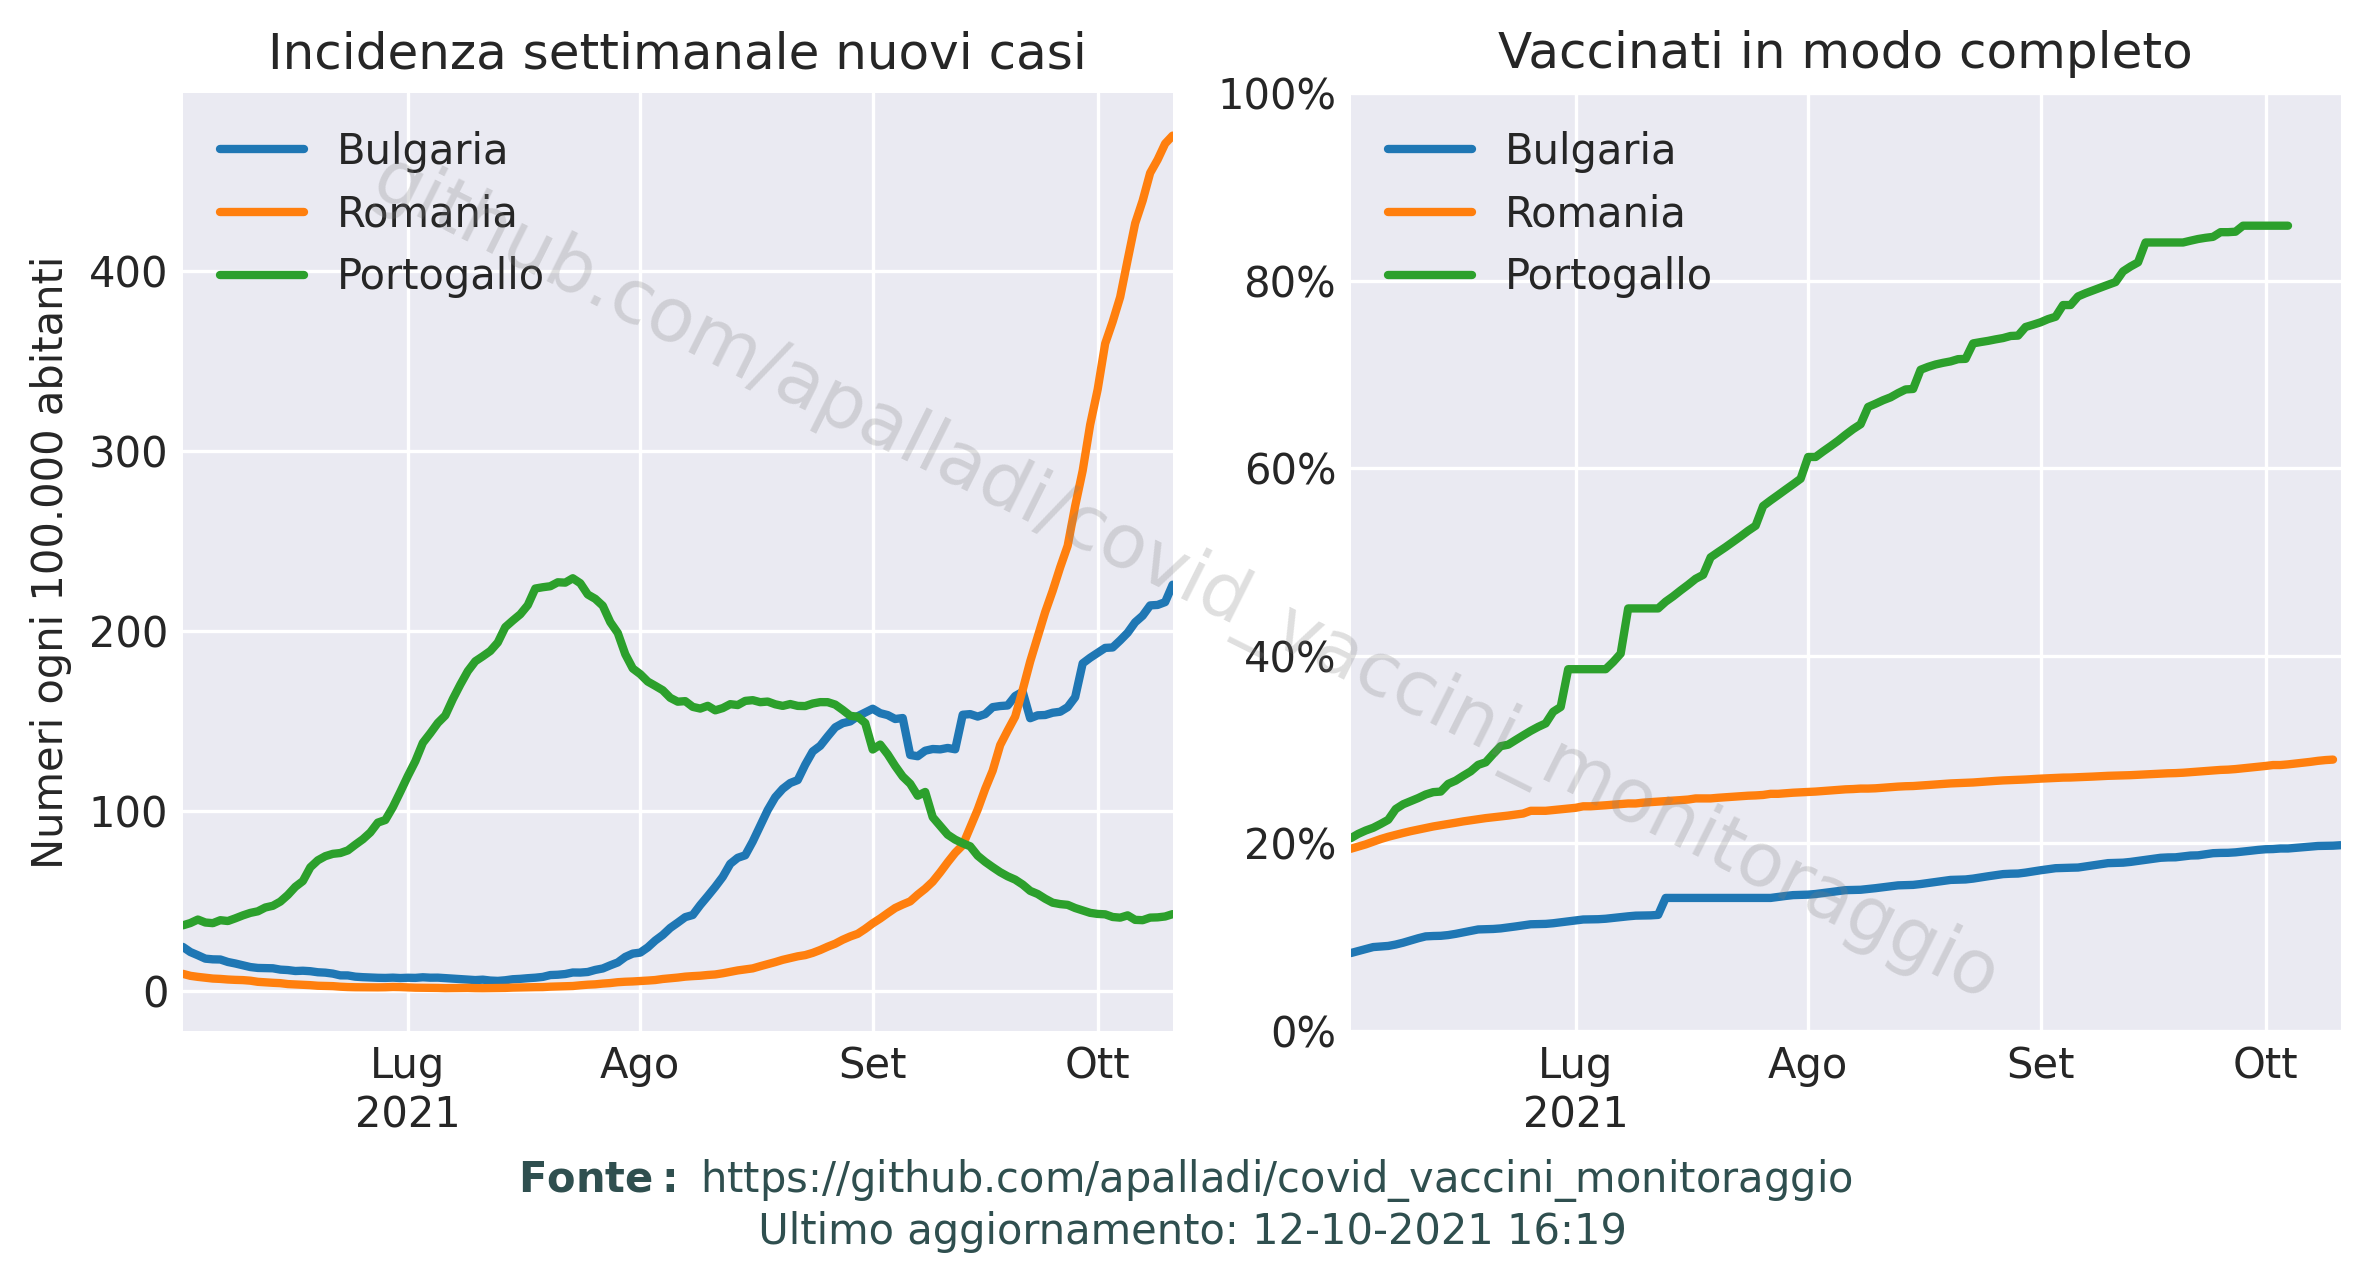
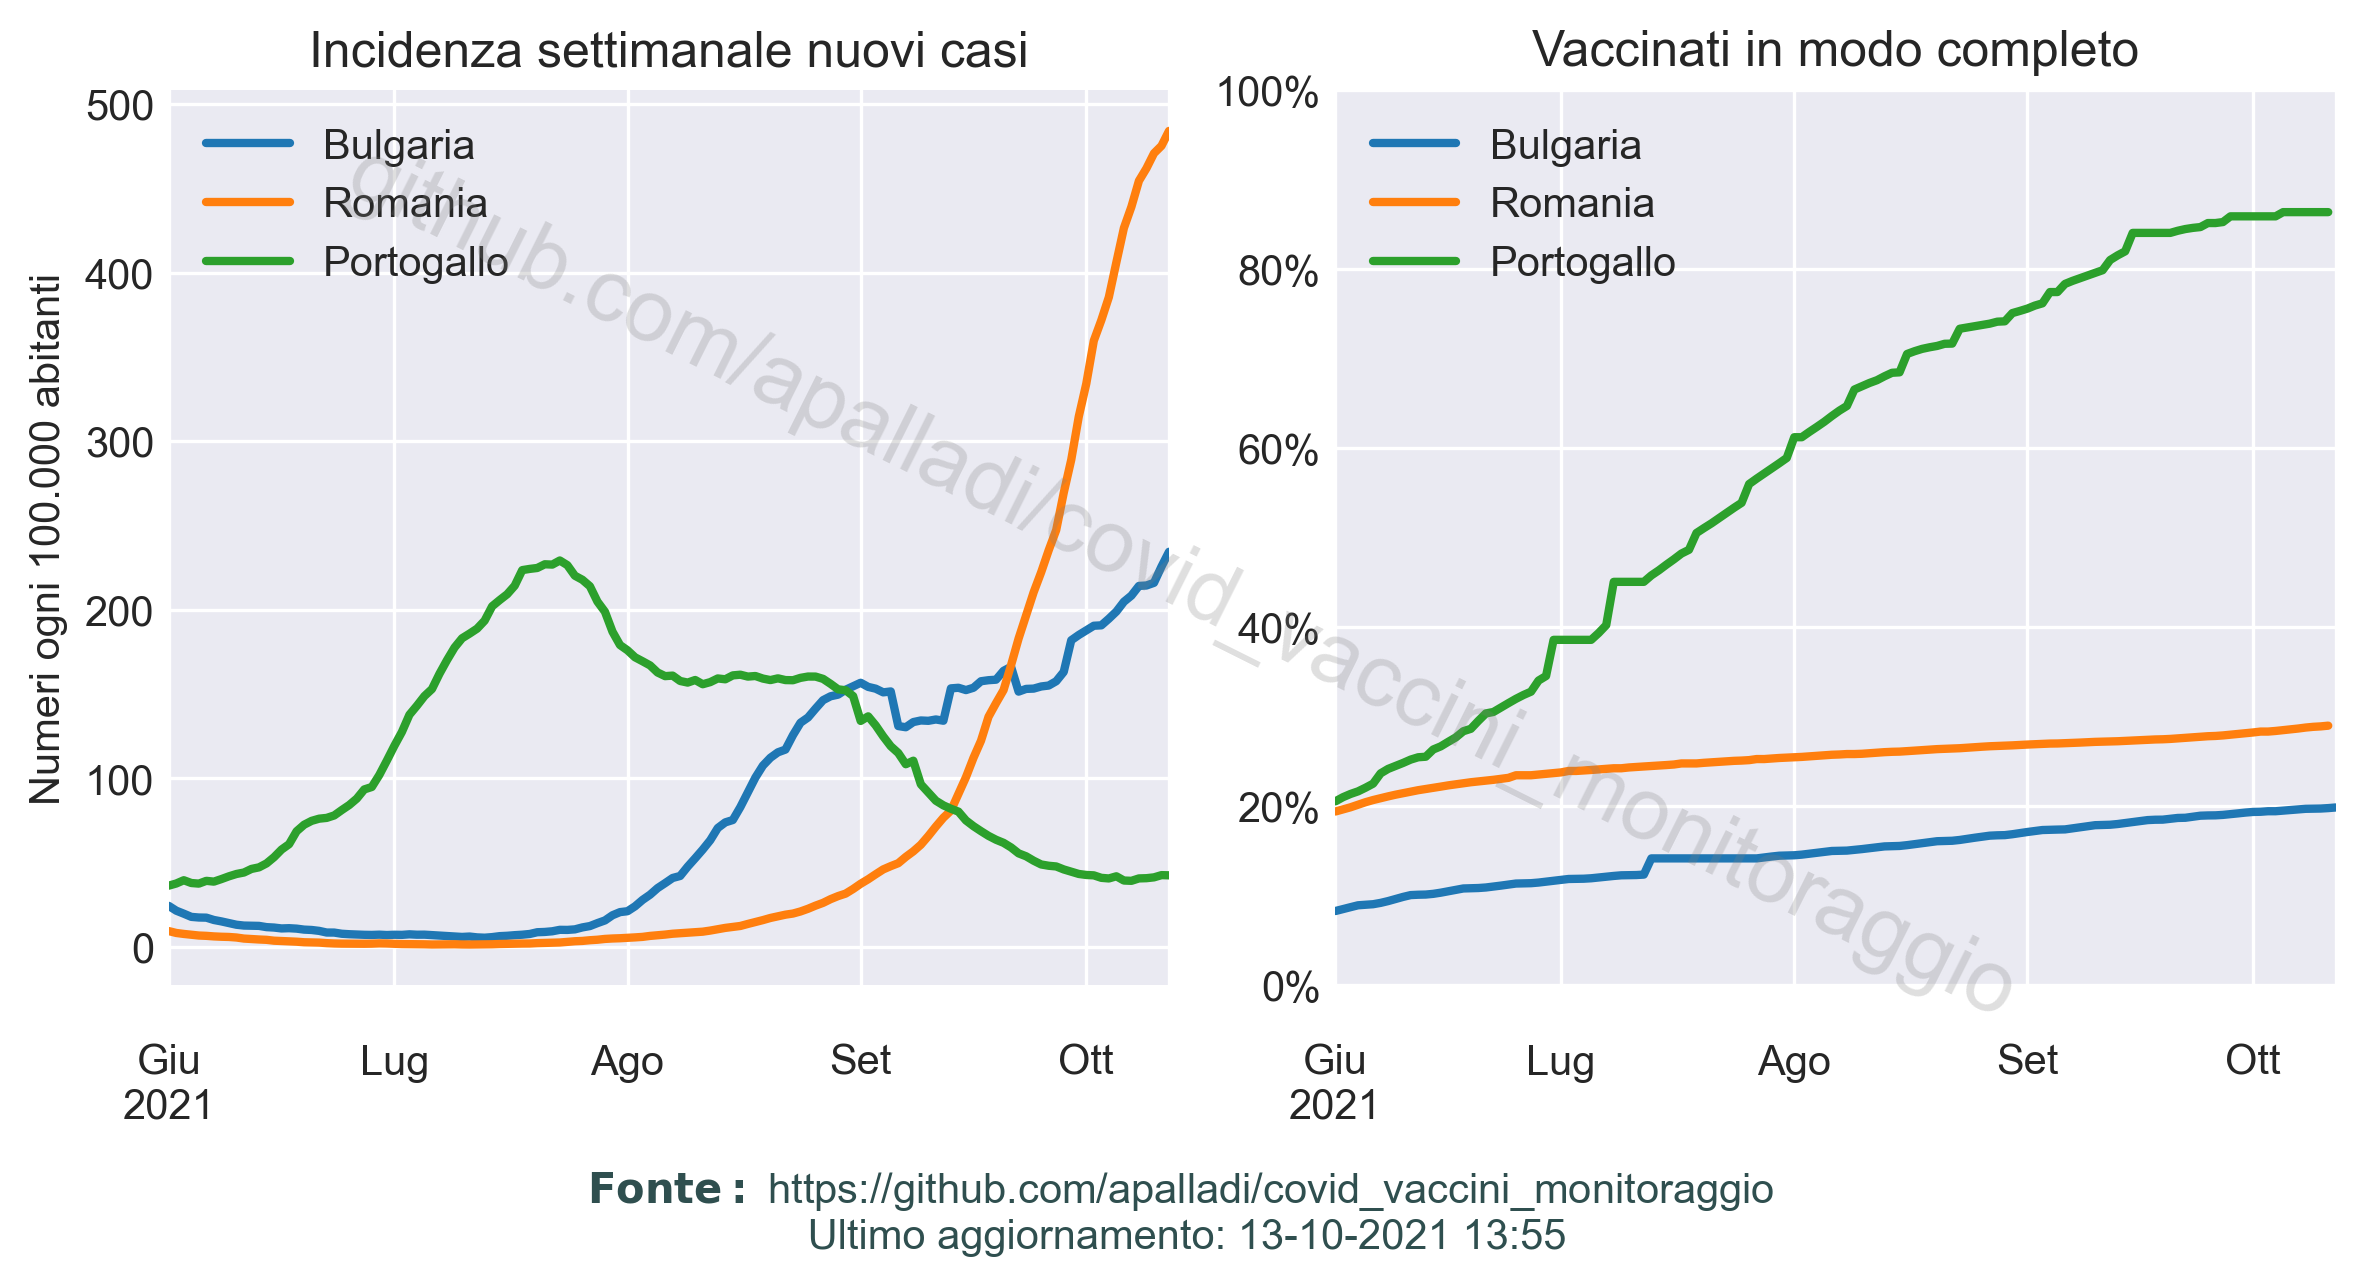
Confronto nazioni: usa labels generati da matplotlib

diff --git a/scripts/confronti_internazionali.py b/scripts/confronti_internazionali.py
@@ -7,7 +7,7 @@ import matplotlib.pyplot as plt
 import numpy as np
 import pandas as pd
 
-from custom.plots import aggiorna_ascissa
+from custom.plots import get_cap_labels
 from custom.watermarks import add_watermark
 
 
@@ -89,9 +89,6 @@ def plot_data(show=False):
     label_nazioni = ["Bulgaria", "Romania", "Portogallo"]
     abitanti_nazioni = [6.883, 19.29, 10.159]
 
-    x_date = ["2021-07-01", "2021-08-01", "2021-09-01", "2021-10-01"]
-    x_label = ["Lug\n2021", "Ago", "Set", "Ott"]
-
     # Imposta stile plots
     plt.style.use("seaborn-dark")
 
@@ -100,27 +97,20 @@ def plot_data(show=False):
     # Unpack all the axes subplots
     axes = axes2.ravel()
 
-    last_updated = pd.to_datetime(x_date[-1])
-
     for i in range(len(nomi_nazioni)):
         df_epid = get_epidemic_data(nomi_nazioni[i],
                                     df_confirmed,
                                     df_deaths,
                                     df_recovered)
-        new_date = df_epid.index[-1]
         mask_ = df_epid.index >= "2021-06-01"
         values = 7/(abitanti_nazioni[i]*10)*df_epid["Daily cases (avg 7 days)"]
         values[mask_].plot(ax=axes[0], label=label_nazioni[i], linewidth=2)
-        last_updated, x_date, x_label = aggiorna_ascissa(last_updated,
-                                                         new_date,
-                                                         x_date,
-                                                         x_label)
 
-    axes[0].set_xlim("2021-06-01", last_updated)
+    x_ticks, x_label = get_cap_labels(axes[0], True)
     axes[0].set_title("Incidenza settimanale nuovi casi")
     axes[0].set_ylabel("Numeri ogni 100.000 abitanti")
     axes[0].set_xlabel("")
-    axes[0].set_xticks(x_date)
+    axes[0].set_xticks(x_ticks)
     axes[0].set_xticklabels(x_label)
     axes[0].legend()
     axes[0].grid()
@@ -128,23 +118,17 @@ def plot_data(show=False):
 
     for i in range(len(nomi_nazioni)):
         df_country = get_vaccine_data(nomi_nazioni[i], df_vacc)
-        new_date = df_country.index[-1]
         mask_ = df_country.index >= "2021-06-01"
         df_country["% fully vaccinated"][mask_].plot(ax=axes[1],
                                                      label=label_nazioni[i],
                                                      linewidth=2)
-        last_updated, x_date, x_label = aggiorna_ascissa(last_updated,
-                                                         new_date,
-                                                         x_date,
-                                                         x_label)
-
-    axes[1].set_xlim("2021-06-01", last_updated)
+    x_ticks, x_label = get_cap_labels(axes[1], True)
     axes[1].set_ylim(0, 100)
     axes[1].set_yticks(np.arange(0, 101, 20))
     axes[1].set_yticklabels(["0%", "20%", "40%", "60%", "80%", "100%"])
     axes[1].set_title("Vaccinati in modo completo")
     axes[1].set_xlabel("")
-    axes[1].set_xticks(x_date)
+    axes[1].set_xticks(x_ticks)
     axes[1].set_xticklabels(x_label)
     axes[1].legend()
     axes[1].grid()
@@ -168,7 +152,7 @@ if __name__ == "__main__":
     chdir(scriptpath)
 
     # Set locale to "it" to parse the month correctly
-    locale.setlocale(locale.LC_ALL, "it_IT.UTF-8")
+    locale.setlocale(locale.LC_TIME, "it_IT")
 
     # Imposta stile grafici
     plt.style.use("seaborn-dark")

diff --git a/scripts/custom/plots.py b/scripts/custom/plots.py
@@ -6,45 +6,16 @@ from re import findall
 
 import matplotlib.pyplot as plt
 from numpy import sort
-from pandas import to_datetime
 
 
 # Funzioni per il plot
-def get_cap_labels(axis):
+def get_cap_labels(axis, add_new_line=False):
     plt.gcf().canvas.draw()
     x_ticks = axis.get_xticks()
-    new_labels = [lb.get_text().title() for lb in axis.get_xmajorticklabels()]
+    new_labels = [f"\n{lb.get_text().title()}"
+                  if add_new_line else lb.get_text().title()
+                  for lb in axis.get_xmajorticklabels()]
     return x_ticks, new_labels
-
-
-def aggiorna_ascissa(last_updated, new_date, x_date, x_label):
-    # aggiorna limite ascissa...
-    if (new_date.month > last_updated.month):
-        # aggiungi nuovo mese/anno se necessario
-        # aggiorna lista x_date
-        date_to_add = new_date.replace(day=1)
-        x_date.append(date_to_add.strftime("%Y-%m-%d"))
-        # aggiorna lista x_label
-        new_month = date_to_add.strftime("%b").capitalize()
-        new_year = date_to_add.strftime("%Y")
-        # specifica nuovo anno se necessario
-        if (new_date.year > to_datetime(x_date[-2]).year):
-            x_label.append(f"{new_month}\n{new_year}")
-            print(f"Aggiunto nuovo mese {new_month} e anno {new_year}")
-        # altrimenti aggiungi il mese
-        else:
-            x_label.append(new_month)
-            print(f"Aggiunto nuovo mese {new_month}")
-        # mantieni lunghezza liste a 4
-        if (len(x_date) > 4):
-            x_date.pop(0)
-            x_label.pop(0)
-            x_label[0] = f"{x_label[0]}\n{new_year}"
-            last_updated = last_updated
-    # ... e data più recente se necessario
-    elif (new_date > last_updated):
-        last_updated = new_date
-    return last_updated, x_date, x_label
 
 
 def list_età_csv(is_most_recent=False):
